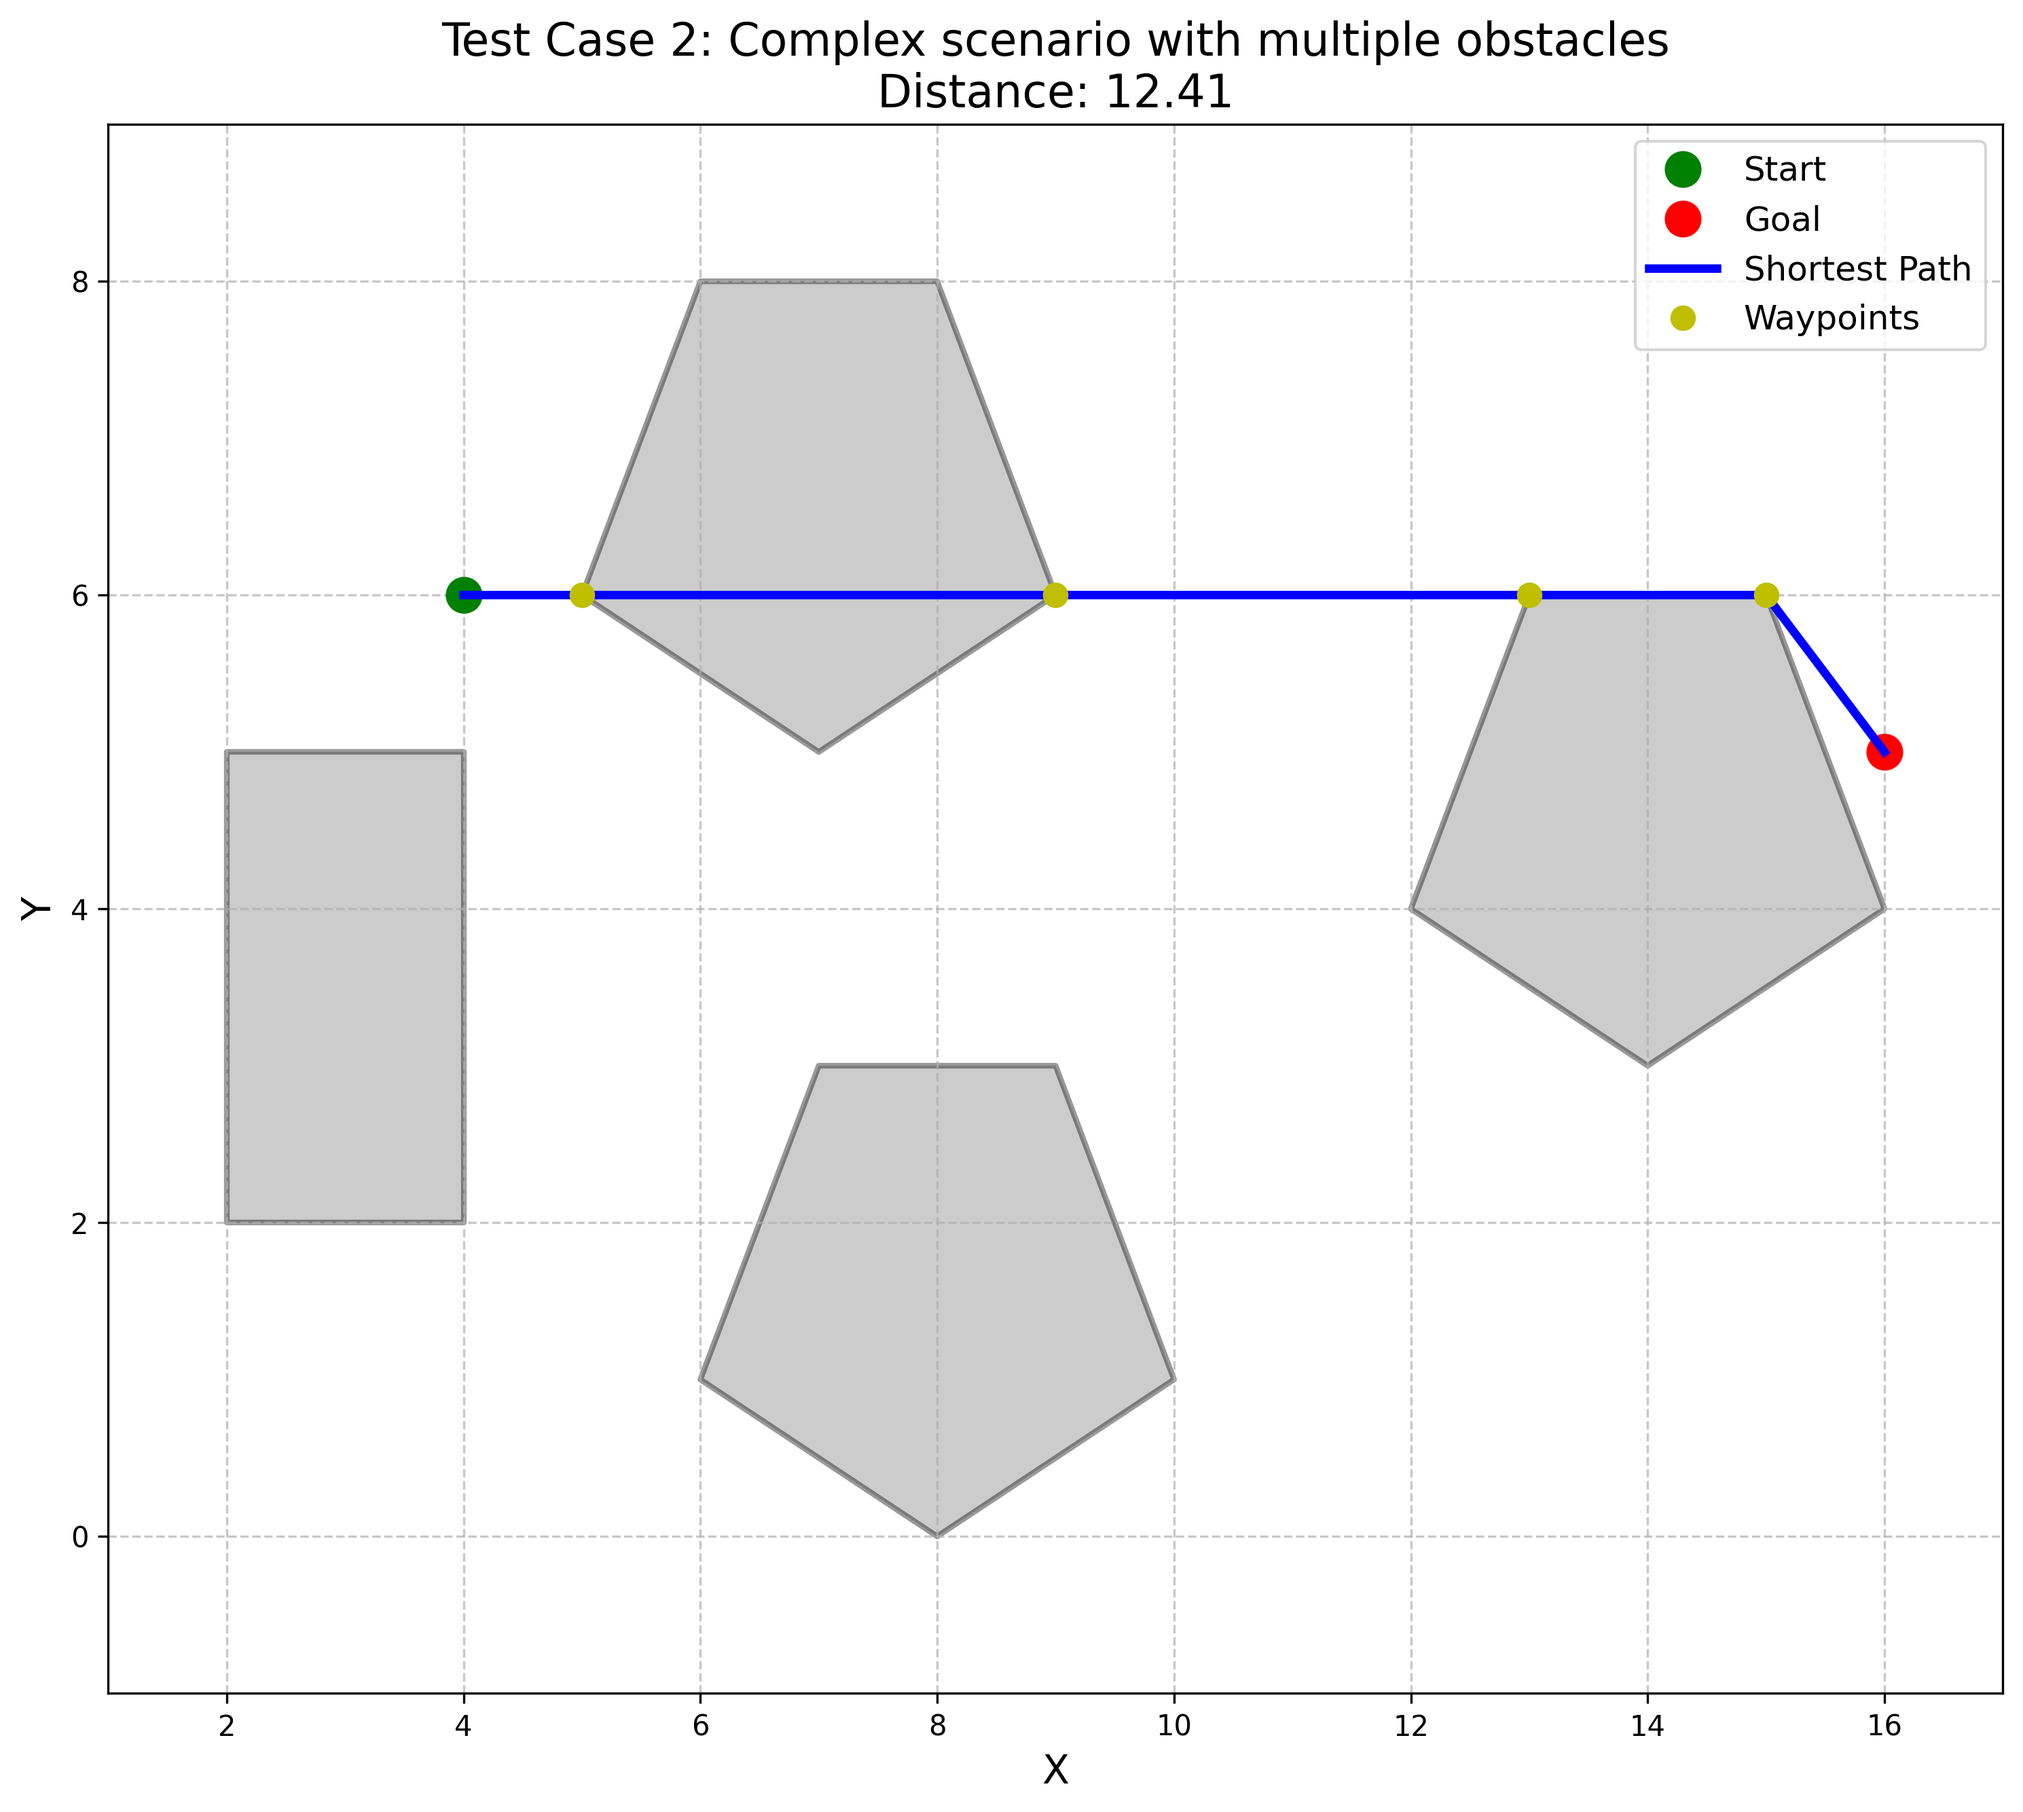
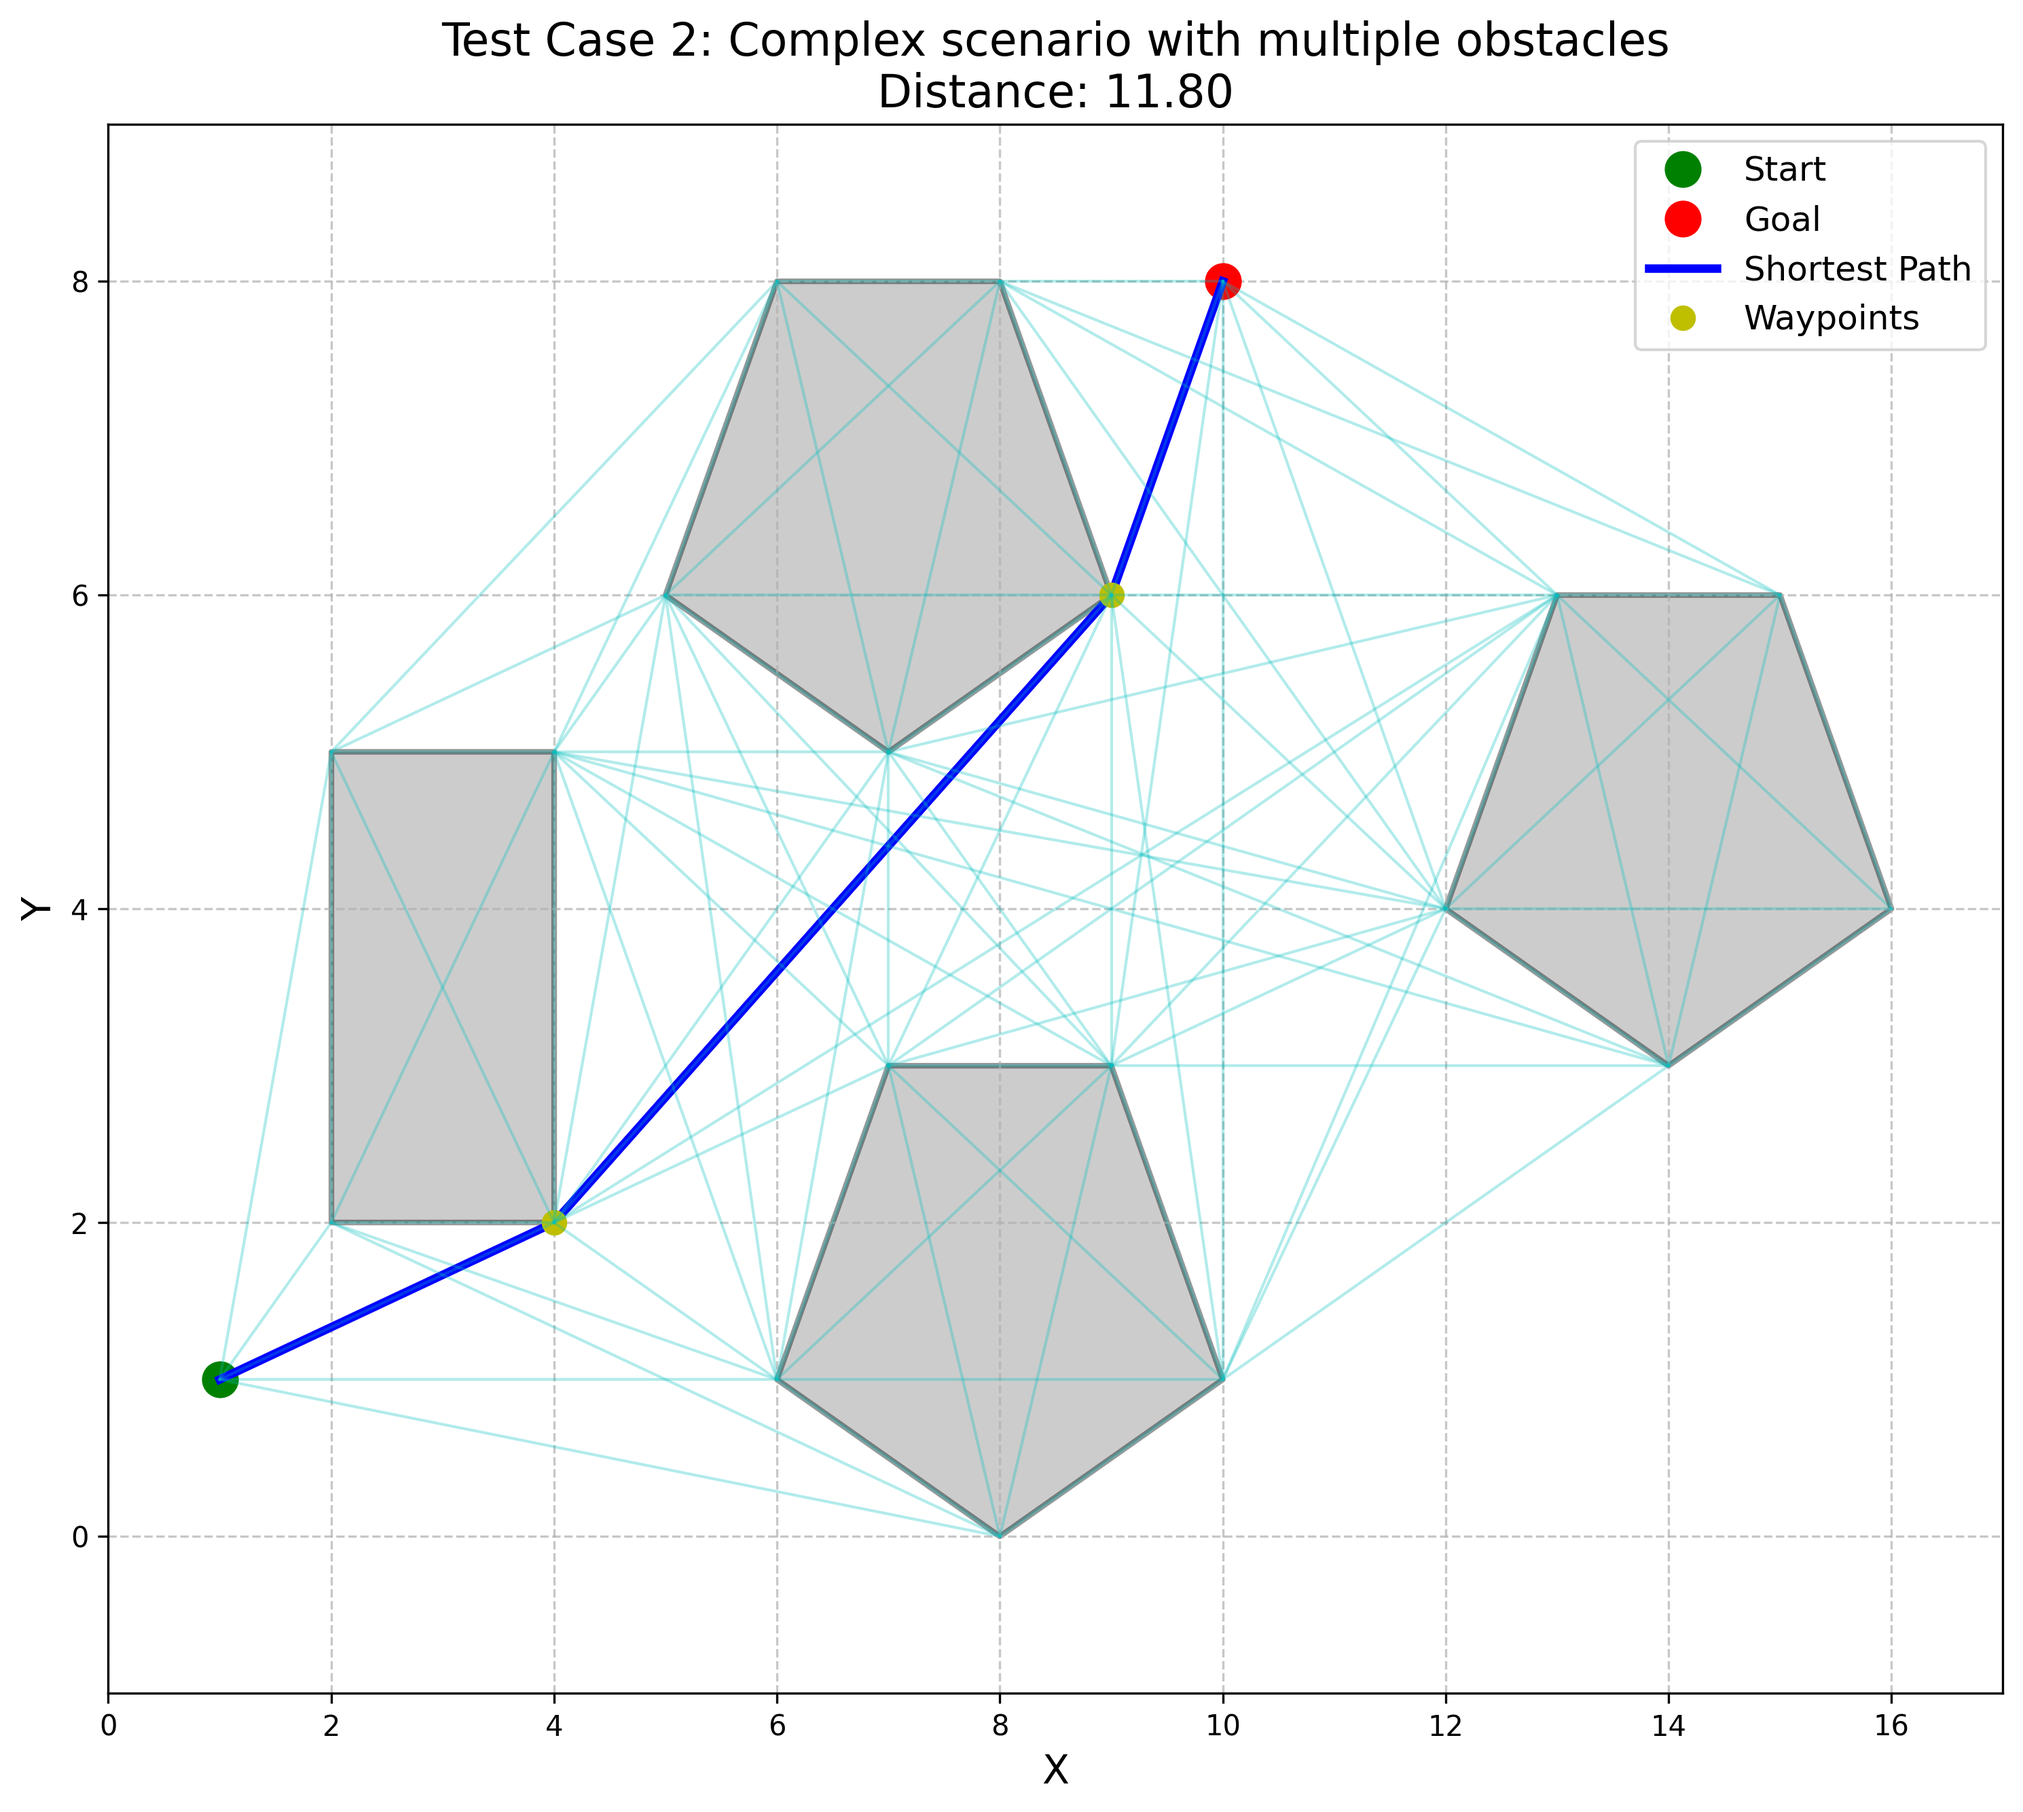
Added report

diff --git a/plot.py b/plot.py
@@ -90,8 +90,8 @@ def plot_test_case(test_num, show_visibility=True):
                 [(5, 6), (6, 8), (8, 8), (9, 6), (7, 5)],
                 [(12, 4), (13, 6), (15, 6), (16, 4), (14, 3)]
             ],
-            "start": (4 , 6 ),
-            "goal": (16, 5)
+            "start": (1 , 1 ),
+            "goal": (10, 8)
         },
         3: {
             "title": "Test Case 3: Narrow passage between obstacles",
@@ -184,7 +184,7 @@ def create_comparison_plot():
                 [(12, 4), (13, 6), (15, 6), (16, 4), (14, 3)]
             ],
             "start": (1, 1),
-            "goal": (15, 7)
+            "goal": (10, 8)
         },
         3: {
             "title": "Test Case 3: Narrow passage",
